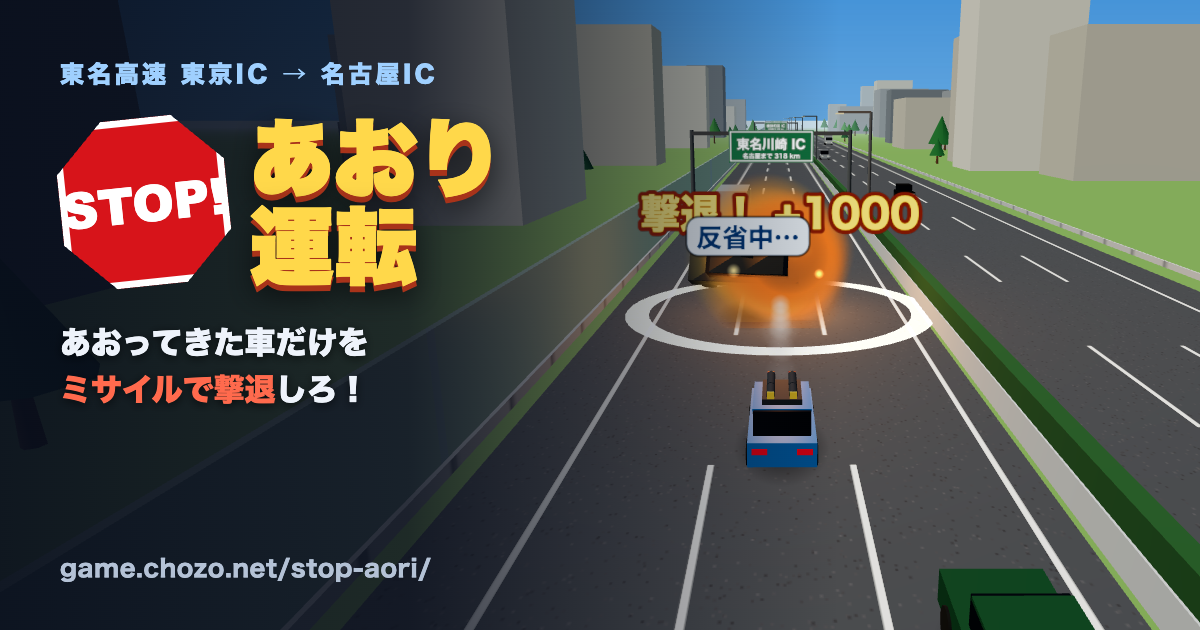
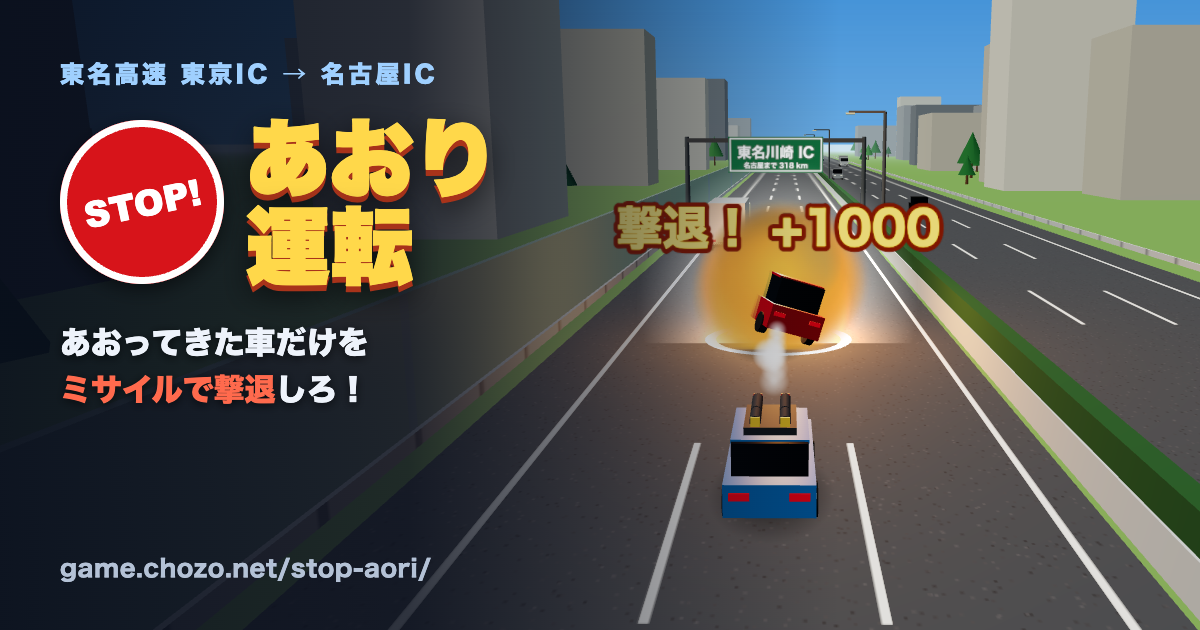
タイトルのSTOP!を赤い丸に。OGP画像をあおり車への着弾シーンに差し替え

diff --git a/src/style.css b/src/style.css
@@ -507,22 +507,23 @@ h1 {
   flex-wrap: wrap;
   gap: 0.25em 0.35em;
 }
-/* 一時停止の標識のような赤い八角形 */
+/* 赤い丸の中に、少し傾けた「STOP!」 */
 h1 .stop {
   display: inline-grid;
   place-items: center;
-  width: 3.5em;
+  width: 4.3em;
   aspect-ratio: 1;
-  font-size: 0.46em;
+  font-size: 0.37em;
   letter-spacing: 0;
   font-family: 'Arial Black', 'Helvetica Neue', system-ui, sans-serif;
   color: #fff;
   background: #d7141a;
-  clip-path: polygon(29% 0, 71% 0, 100% 29%, 100% 71%, 71% 100%, 29% 100%, 0 71%, 0 29%);
-  box-shadow: inset 0 0 0 0.12em #fff;
-  outline: 0.1em solid #d7141a;
-  outline-offset: -0.1em;
-  transform: rotate(-6deg);
+  border-radius: 50%;
+  box-shadow:
+    inset 0 0 0 0.12em #fff,
+    inset 0 0 0 0.2em #d7141a,
+    0 0.08em 0.25em rgba(0, 0, 0, 0.45);
+  transform: rotate(-12deg);
 }
 h1 .name {
   color: #ffd84a;

diff --git a/index.html b/index.html
@@ -14,7 +14,7 @@
     <meta property="og:image" content="https://game.chozo.net/stop-aori/ogp.png" />
     <meta property="og:image:width" content="1200" />
     <meta property="og:image:height" content="630" />
-    <meta property="og:image:alt" content="高速道路で前に割り込んだあおり車をミサイルで撃退した瞬間と、タイトル「STOP! あおり運転」" />
+    <meta property="og:image:alt" content="高速道路で前に割り込んだあおり車にミサイルが当たって爆発した瞬間と、タイトル「STOP! あおり運転」" />
     <meta property="og:locale" content="ja_JP" />
     <meta name="twitter:card" content="summary_large_image" />
     <meta name="theme-color" content="#0b1d33" />

diff --git a/README.md b/README.md
@@ -80,7 +80,7 @@ npm run deploy     # ビルドして Cloudflare Workers に公開
 
 Cloudflare Workers（静的アセット）で `https://game.chozo.net/stop-aori/` に公開している。`wrangler.jsonc` で `game.chozo.net/stop-aori` と `game.chozo.net/stop-aori/*` のルートだけを受け持つ（workers.dev は使わない）。ビルドは `dist/stop-aori/` に出力され、`public/` の `favicon.svg` と `ogp.png` もそこにコピーされる。
 
-OGP画像は `tools/ogp/make-ogp.mjs` で、前に割り込んだあおり車を前方ミサイルで撃った直後の場面を撮り、タイトルと遊び方を重ねて作る。爆発の粒は毎回少し違う形になる。
+OGP画像は `tools/ogp/make-ogp.mjs` で、前に割り込んだ赤いあおり車に前方ミサイルが当たって吹き飛ぶ瞬間を撮り（吹き出しは消す）、タイトルと遊び方を重ねて作る。爆発の粒は毎回少し違う形になる。
 
 ### ファイル構成
 
